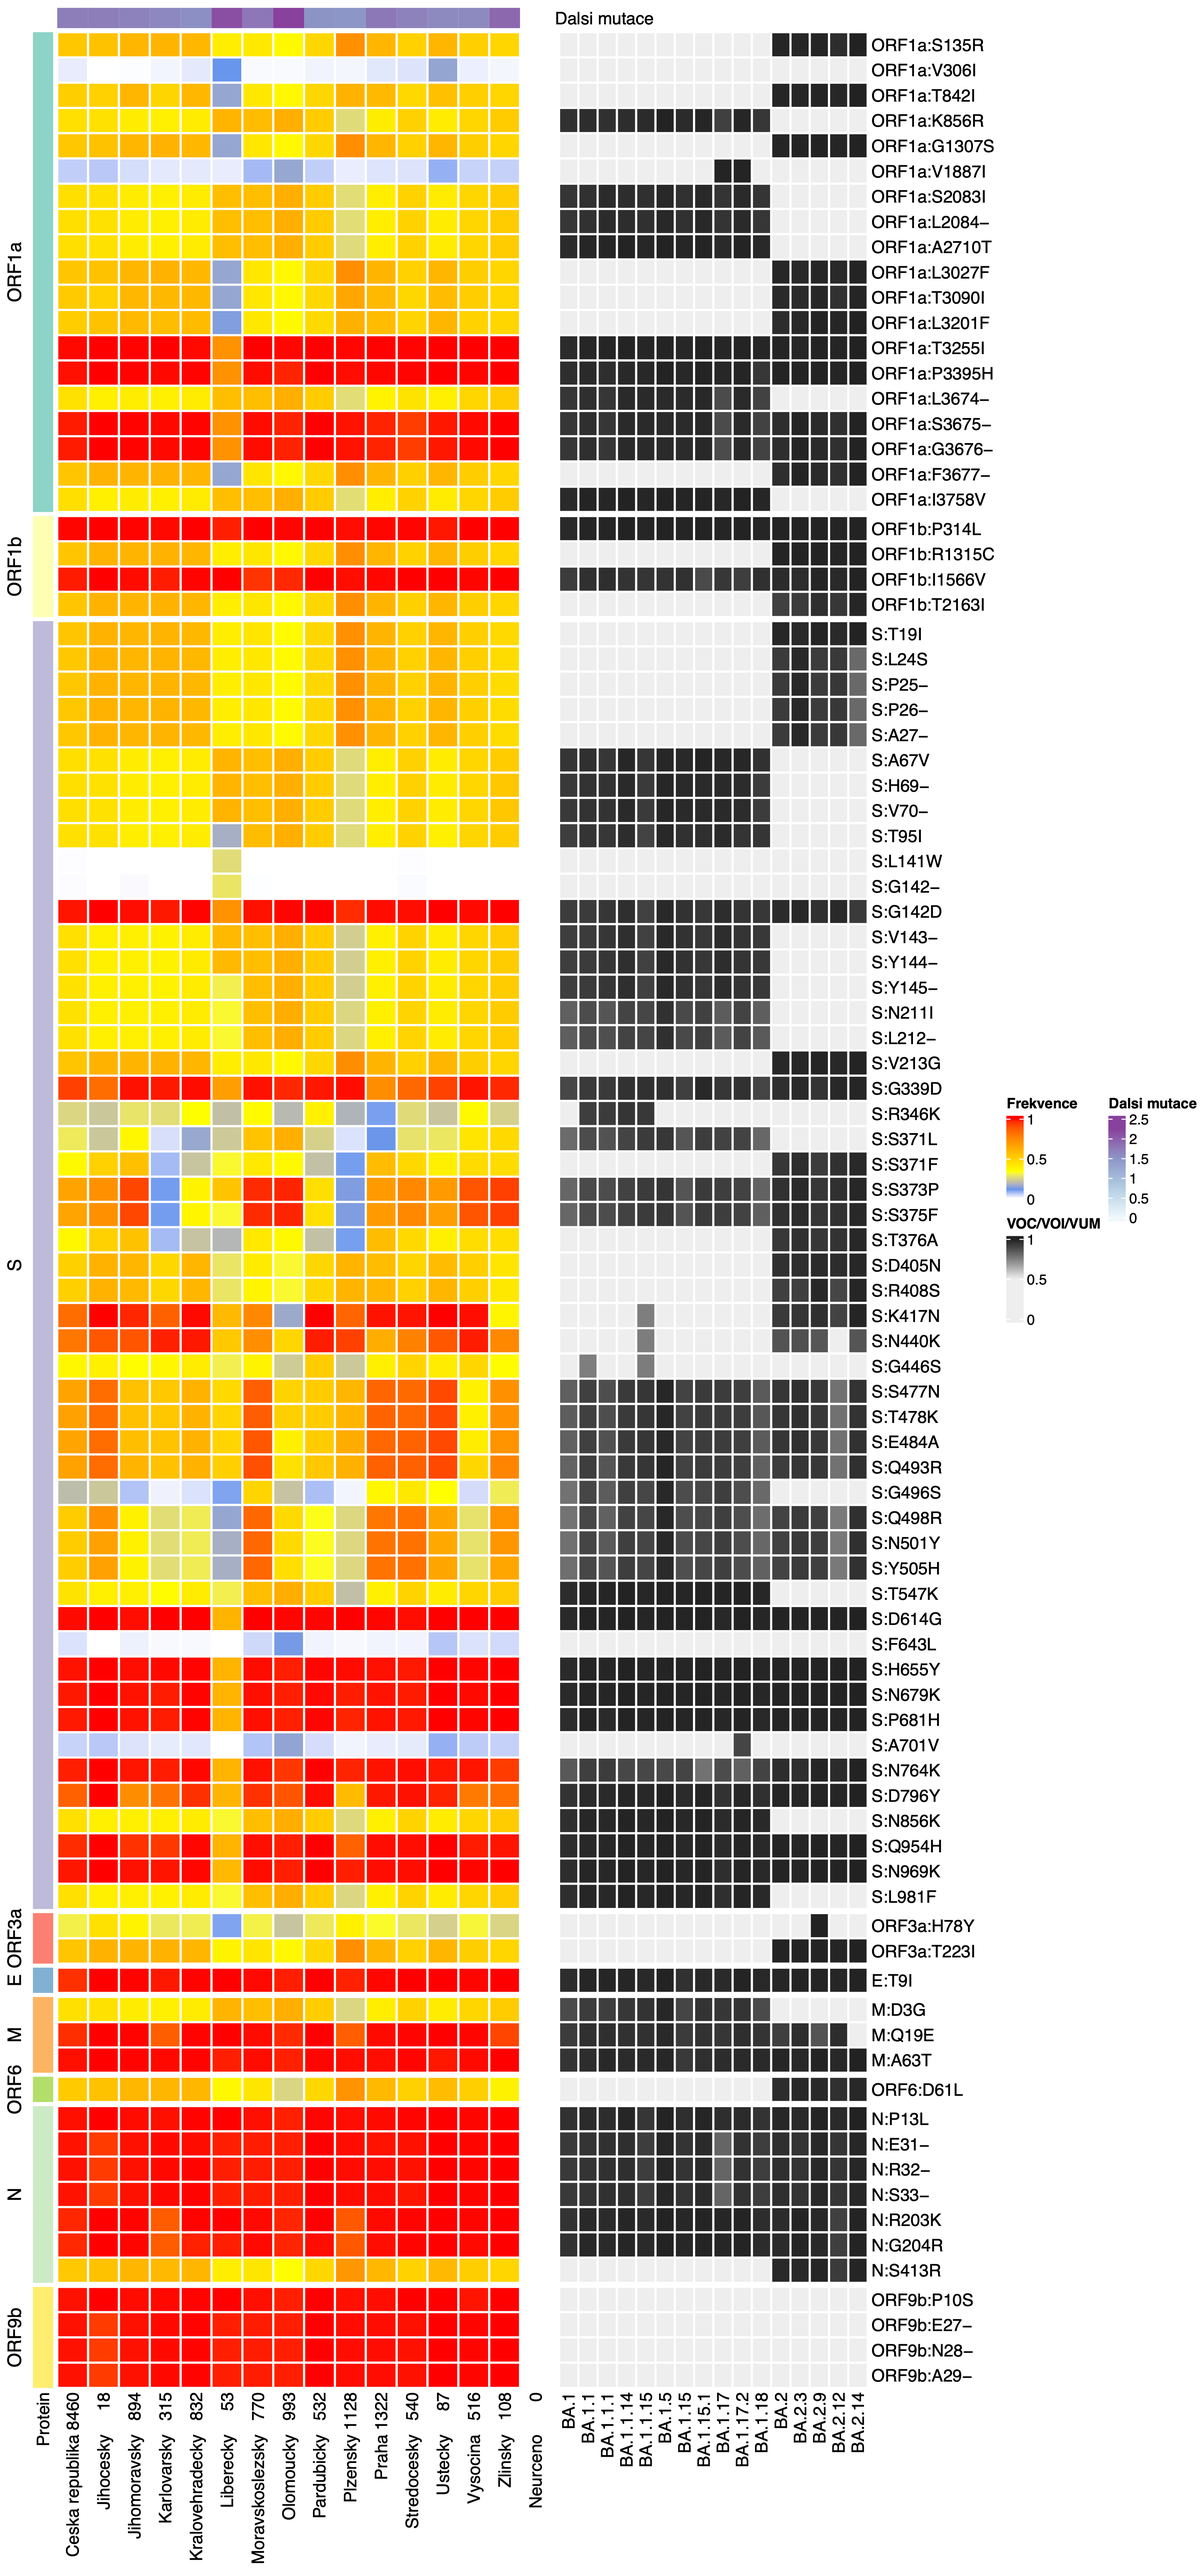
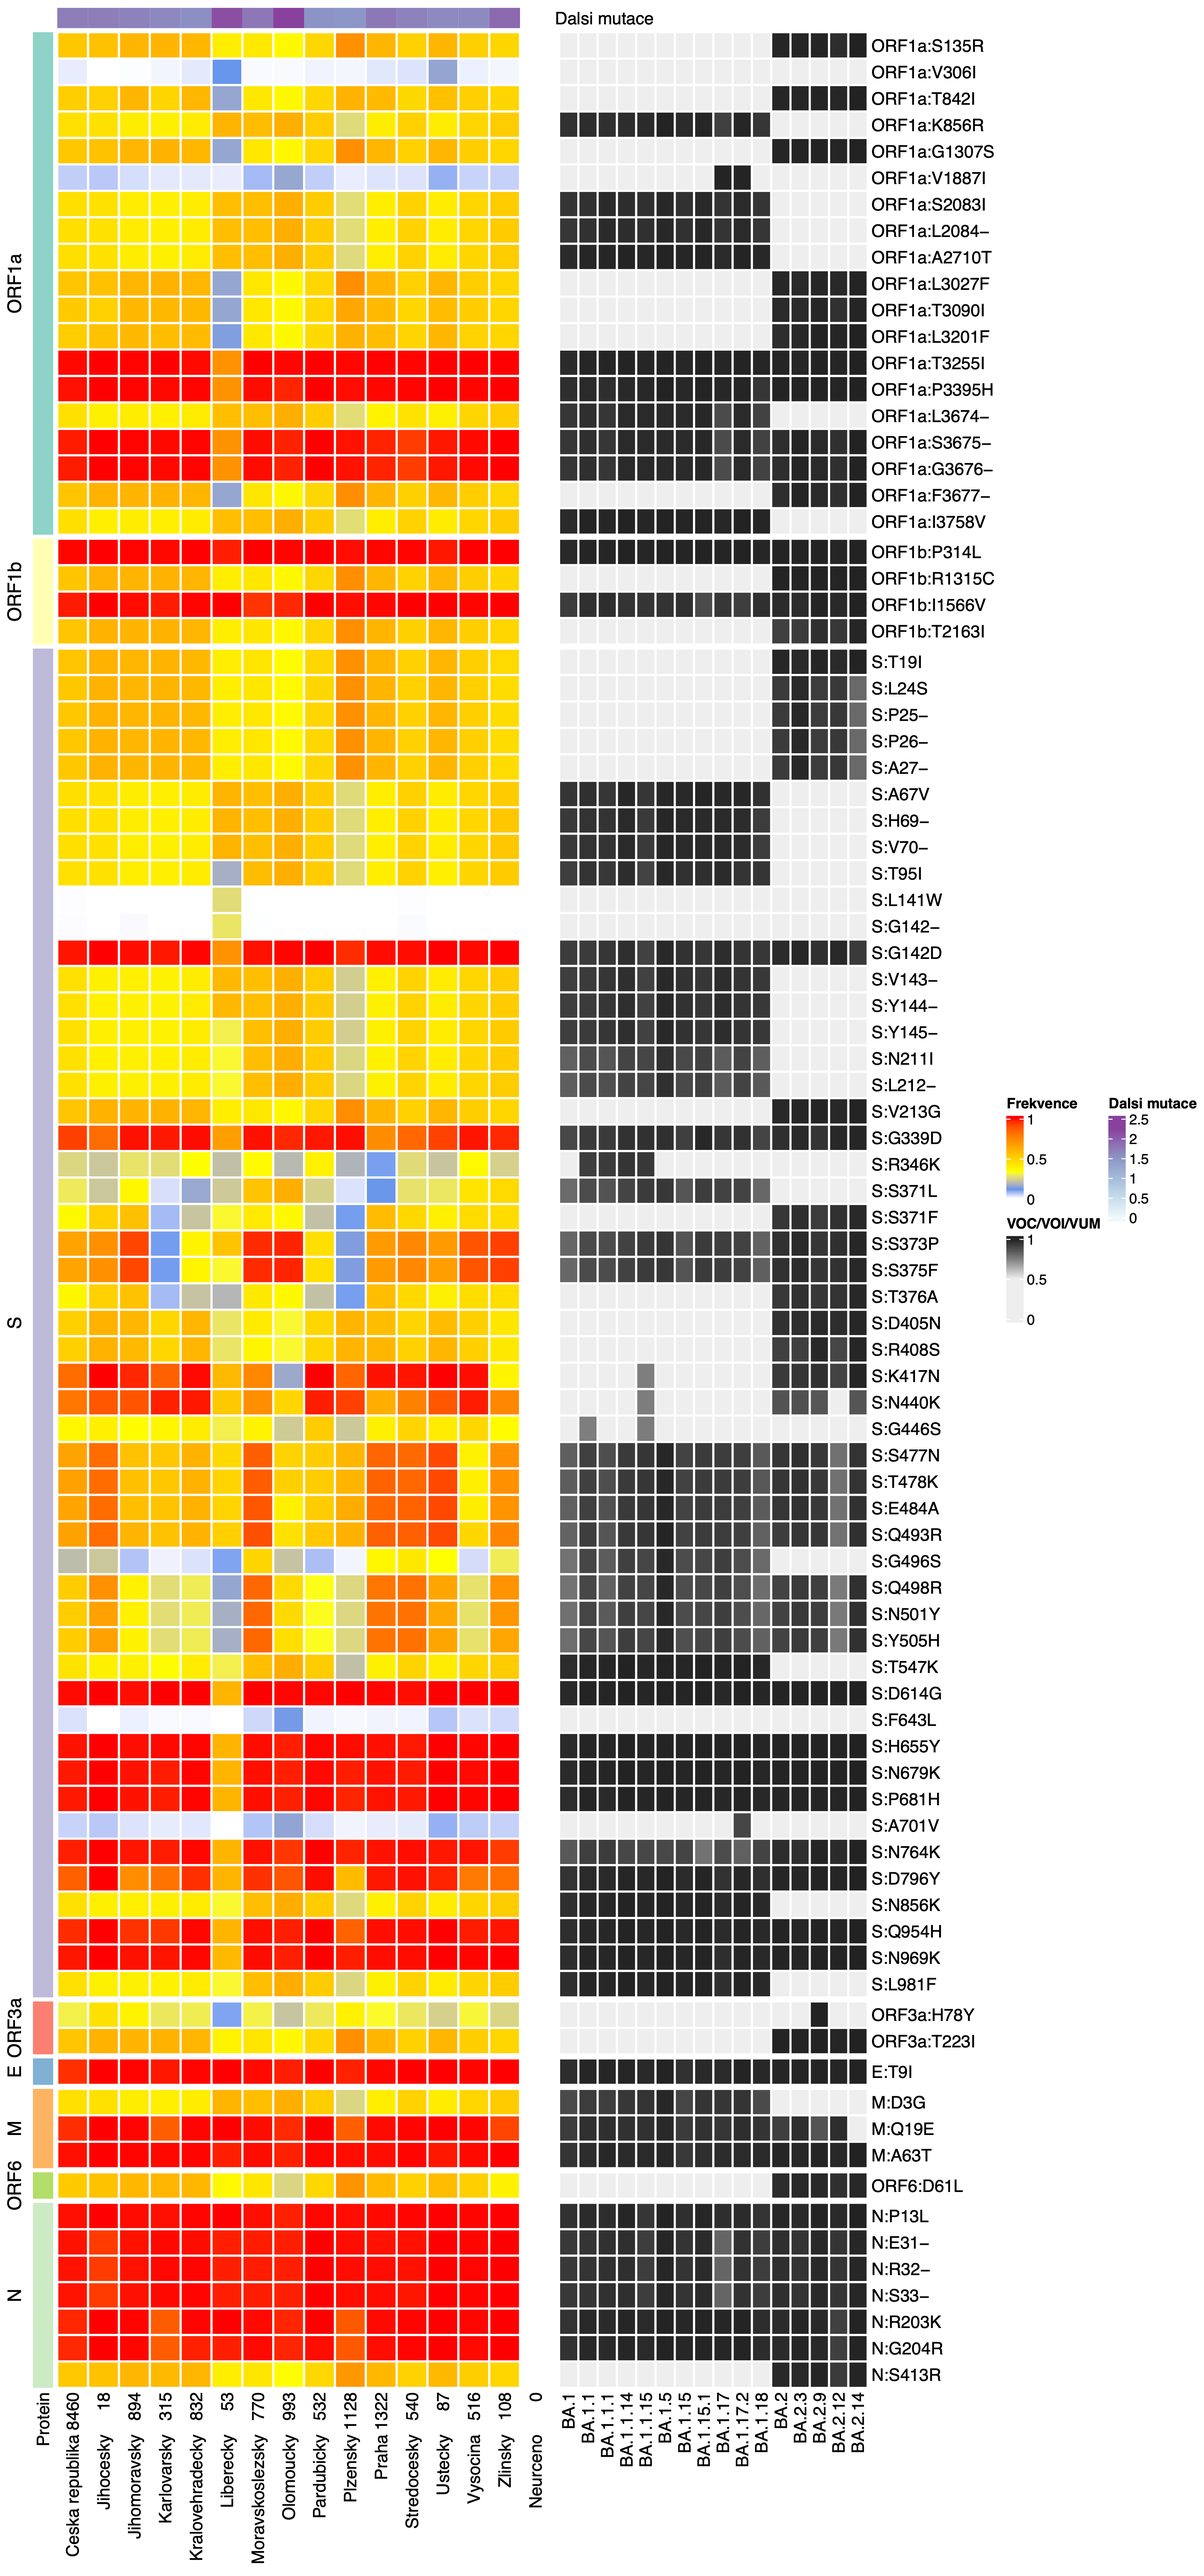
week 16 1

diff --git a/input/hampl/haplosit_regiony.html b/input/hampl/haplosit_regiony.html
@@ -1,5 +1,5 @@
 <div>
-    Na tvorbu haplotypové sítě byl použit výběr sekvencí 700 vzorků z&nbsp;České republiky shromážděných <nobr>od 4. 3. 2022</nobr>.
+    Na tvorbu haplotypové sítě byl použit výběr sekvencí 700 vzorků z&nbsp;České republiky shromážděných <nobr>od 18. 3. 2022</nobr>.
     Velikost uzlů odpovídá počtu vzorků s&nbsp;identickou sekvencí DNA. 
     Spojnice naznačují pravděpodobné příbuzenské vztahy, počet krátkých kolmých úseček odpovídá počtu mutačních změn. 
     Uzly jsou vybarveny podle kraje a v&nbsp;případě, že se identický haplotyp vyskytuje ve více krajích, jsou vybarveny jako koláčový graf. V sítích jsou místy patrné drobné krajově specifické shluky, jejichž vznik je však ovlivněn nerovnoměrností sběru vzorků. Celá síť představuje variantu Omicron s jejími podvariantami.
@@ -9,5 +9,5 @@
 <span style="display:block; height: 15px;"></span>
     
 <div class="figure">
-    <img src="{{obrazek(template, 'Haplosit-14week-LR.png')}}" style="max-height: 15cm;">
+    <img src="{{obrazek(template, 'haplosit-week16-LR.png')}}" style="max-height: 15cm;">
 </div>
